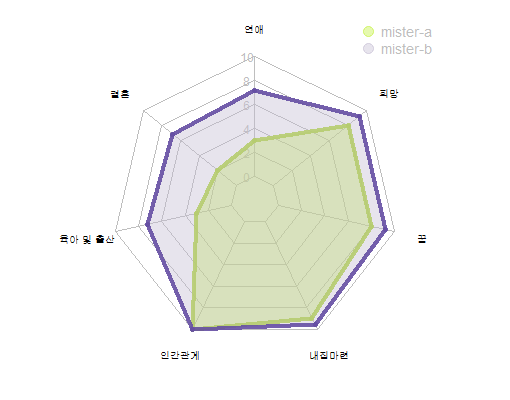
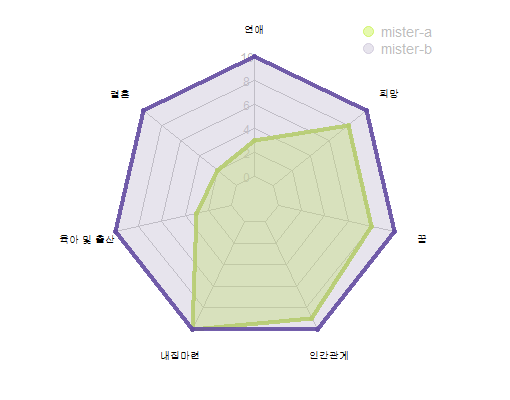
loading

Changed region(s): [[0.2059, 0.12, 0.7941, 0.84], [0.5882, 0.87, 0.7059, 0.9], [0.3235, 0.87, 0.4118, 0.9]]

diff --git a/sevenget/src/main/java/com/sevenget/Rcode/Evaluation.java b/sevenget/src/main/java/com/sevenget/Rcode/Evaluation.java
@@ -61,7 +61,6 @@ public class Evaluation {
 		double datePuP = (PRScoDto.getNoOTPuP() * 46 + PRScoDto.getWeekendWorkPuP() * 15
 				+ PRScoDto.getEggshellsPuP() * 6 + PRScoDto.getFinanSupportPuP() * 6
 				+ PRScoDto.getApprAmountWorkPuP() * 6) * 6.8 / 790;
-		System.out.println("되는거니...?");
 		double marriagePuP = ((PRScoDto.getRelSysAfterMarriagePuP() * 18 + PRScoDto.getSuffSalaryPuP() * 13
 				+ PRScoDto.getEggshellsPuP() * 11 + PRScoDto.getNoOTPuP() * 11 + PRScoDto.getFinanSupportPuP() * 9)
 				* 6.8 / 620);
@@ -105,26 +104,23 @@ public class Evaluation {
 
 		// 일반인 평가
 		try { // 세부 점수를 넣어줬으면
-			dtoEP = ev.EvalCompanyEPR(CRScoDao.selectbyCid(cid));// 값을 입력을 먼저
-																	// 해줘서 그걸
-																	// 넘겨줘야
-																	// 하는데... 일단
-																	// 값을 미리
-																	// 넣어둠.
-
+			dtoEP = ev.EvalCompanyEPR(CRScoDao.selectbyCid(cid));// 전문가 평가는 일단 값을 DB에 강제로 넣어둠. 나중에 관리자 페이지랑.. 그런거 생기면 웹에서도 입력할 수 있게 해보자..
+			System.out.println("+++++++++++++++++++++++++++++++++++++");
+			System.out.println(dtoEP.getCid()+" "+dtoEP.getDateSco()+" "+dtoEP.getMarrySco()+" "+dtoEP.getBabySco()+" "+dtoEP.getHouseSco()+" "+dtoEP.getRelationSco()+" "+dtoEP.getDreamSco()+" "+dtoEP.getHopeSco());
+			System.out.println("+++++++++++++++++++++++++++++++++++++");
 			PublicRawScoDaoImpl PRScoDao = new PublicRawScoDaoImpl();
 			System.out.println(5);
 			CompanyScoDto dtoPP = new CompanyScoDto();
 			System.out.println(6);
+			
+			// 일반인 평가가 30개가 넘는지 확인! 안넘으면 null 처리.
+			int PRcnt = PRScoDao.selectCntPublicRawScores(cid);
+			if(PRcnt <30 ){
+				dtoPP = null;
+			}else{
+				dtoPP = ev.EvalCompanyPUP(PRScoDao.selectbyCid(cid, id));
+			}
 
-			dtoPP = ev.EvalCompanyPUP(PRScoDao.selectbyCid(cid, id));// 이것도 값을
-																		// 입력을
-																		// 해줘야
-																		// 하는데
-																		// 일단
-																		// db로
-																		// 강제
-																		// 입력함!
 			System.out.println(7);
 
 			//// 점수환산 과정 중 마지막! 다 합쳐주는 것!
@@ -135,6 +131,8 @@ public class Evaluation {
 			//// CScoDto.getRelationSco(), CScoDto.getDreamSco(),
 			//// CScoDto.getHopeSco());
 			if (dtoPP != null) {
+				System.out.println("세부점수 없음 시나리오1");
+
 				System.out.println("일반인 평가 있을 때"); // 10 6.8 -> 6 4
 				double dateEP = Double.parseDouble(String.format("%.2f", dtoEP.getDateSco() * 0.6));
 				double datePP = Double.parseDouble(String.format("%.2f", dtoPP.getDateSco() * 4 / 6.8));
@@ -174,17 +172,20 @@ public class Evaluation {
 				return CScoDto;
 
 			} else {
-				System.out.println("일반인 평가 없을 때");
+				System.out.println("세부점수 없음 시나리오2");
+
+				System.out.println("일반인 평가 없거나 30개 미만일 때");
 				System.out.println("dtoEP에 저장된 cid" + dtoEP.getCid());
+				
 
 				System.out.println(16);
-				CScoDto.setDateSco(Double.parseDouble(String.format("%.2f", dtoEP.getDateSco() * 10 / 6)));
-				CScoDto.setMarrySco(Double.parseDouble(String.format("%.2f", dtoEP.getMarrySco() * 10 / 6)));
-				CScoDto.setBabySco(Double.parseDouble(String.format("%.2f", dtoEP.getBabySco() * 10 / 6)));
-				CScoDto.setHouseSco(Double.parseDouble(String.format("%.2f", dtoEP.getHouseSco() * 10 / 6)));
-				CScoDto.setRelationSco(Double.parseDouble(String.format("%.2f", dtoEP.getRelationSco() * 10 / 6)));
-				CScoDto.setDreamSco(Double.parseDouble(String.format("%.2f", dtoEP.getDreamSco() * 10 / 6)));
-				CScoDto.setHopeSco(Double.parseDouble(String.format("%.2f", dtoEP.getHopeSco() * 10 / 6)));
+				CScoDto.setDateSco(Double.parseDouble(String.format("%.2f", dtoEP.getDateSco())));
+				CScoDto.setMarrySco(Double.parseDouble(String.format("%.2f", dtoEP.getMarrySco())));
+				CScoDto.setBabySco(Double.parseDouble(String.format("%.2f", dtoEP.getBabySco())));
+				CScoDto.setHouseSco(Double.parseDouble(String.format("%.2f", dtoEP.getHouseSco())));
+				CScoDto.setRelationSco(Double.parseDouble(String.format("%.2f", dtoEP.getRelationSco())));
+				CScoDto.setDreamSco(Double.parseDouble(String.format("%.2f", dtoEP.getDreamSco() * 2)));
+				CScoDto.setHopeSco(Double.parseDouble(String.format("%.2f", dtoEP.getHopeSco() * 2)));
 				System.out.printf("연애%s\t결혼%s\t아기%s\t내집%s\t인간%s\t꿈%s\t희망%s\n", CScoDto.getDateSco(),
 						CScoDto.getMarrySco(), CScoDto.getBabySco(), CScoDto.getHouseSco(), CScoDto.getRelationSco(),
 						CScoDto.getDreamSco(), CScoDto.getHopeSco());
@@ -194,6 +195,7 @@ public class Evaluation {
 				System.out.println(18);
 			}
 		} catch (Exception e) {// 세부 점수를 안 넣어줬으면
+			System.out.println("세부점수 없음 시나리오");
 			MemConcernDAO MCdao = new MemConcernDAO();
 			System.out.println(19);
 			MemConcernDto MCdto = new MemConcernDto();

diff --git a/sevenget/src/main/java/com/sevenget/seven/ReviewController.java b/sevenget/src/main/java/com/sevenget/seven/ReviewController.java
@@ -13,6 +13,8 @@ import model.company.CompanyBasicDAO;
 import model.company.InterestedRCDAO;
 import model.company.InterestedRCDTO;
 import model.member.MemBasicInfoDAO;
+import model.plots.PlotsDaoImpl;
+import model.plots.PlotsDto;
 import model.review.ReviewDaoImpl;
 import model.review.ReviewDto;
 
@@ -22,7 +24,7 @@ public class ReviewController {
 	// 기업 상세페이지
 	@RequestMapping(value = "main/detailpage", method = RequestMethod.GET)
 	public ModelAndView DetailP(ReviewDaoImpl reviewDao, InterestedRCDAO idao, MemBasicInfoDAO mdao,CompanyBasicDAO cdao, HttpServletRequest request,HttpSession session, @RequestParam int cid) {
-		String id = (String)session.getAttribute("id"); // 파라메터로 받아오기
+		String id = (String)session.getAttribute("id"); // 세션으로 받아오기
 		System.out.println("main/detailpage"+id);
 		
 		ModelAndView mav = new ModelAndView();
@@ -40,6 +42,18 @@ public class ReviewController {
 		} else{
 			mav.addObject("isInterested", "F");
 		}
+		
+		/*PlotsDaoImpl PlotDao = new PlotsDaoImpl();
+		PlotsDto PlotDto = new PlotsDto();
+		
+		PlotDto = PlotDao.inquiryId(id, cid);
+		if(PlotDto.getPlotpng() != null){
+			System.out.println("detailpage 불러올건데 plotpng가 있다! 불러올거다!");
+			mav.addObject("plotpng", PlotDto.getPlotpng());
+		}else{
+			//mav.addObject 할거 없음..
+		}*/
+		
 		
 		mav.addObject("interTimes", idao.getInterTimesByCid(cid));
 		mav.addObject("reviewList", reviewDao.selectReview(cid));

diff --git a/sevenget/src/main/java/com/sevenget/seven/HomeController.java b/sevenget/src/main/java/com/sevenget/seven/HomeController.java
@@ -64,13 +64,21 @@ public class HomeController {
 		
 		return "main/joeh";
 	}
-	
 	// loading
 	@RequestMapping(value = "/main/loading", method = RequestMethod.GET)
+	public ModelAndView Loading(PlotsDaoImpl DAO, HttpSession session, HttpServletRequest request, @RequestParam("cid") int cid/*, @RequestParam("id") String id*/){
+		System.out.println("loading을 시작합니다. 빙글빙글");
+		ModelAndView mav = new ModelAndView();
+		mav.setViewName("/main/loading");
+		return mav;
+	}
+	
+	// loading
+	@RequestMapping(value = "/main/mplot", method = RequestMethod.GET)
 	public ModelAndView MPlot(PlotsDaoImpl DAO, HttpSession session, HttpServletRequest request, @RequestParam("cid") int cid/*, @RequestParam("id") String id*/) throws REXPMismatchException, REngineException{
+		System.out.println("mplotmplotmplotmplotmplotmplotmplot");
 		ModelAndView mav = new ModelAndView();
 
-		System.out.println("loading을 시작합니다. 빙글빙글");
 		System.out.println(cid);
 		String id = (String)session.getAttribute("id"); // 파라메터로 받아오기
 		
@@ -125,7 +133,7 @@ public class HomeController {
 		mav.addObject("cid",plotDto.getCid());
 		mav.addObject("plotpng",plotDto.getPlotpng());
 		
-		mav.setViewName("main/loading");
+		mav.setViewName("main/mplot");
 		
 		session.setAttribute("id", id);
 		session.setAttribute("cid", cid);

diff --git a/sevenget/src/main/java/com/sevenget/Rcode/MakingPlot.java b/sevenget/src/main/java/com/sevenget/Rcode/MakingPlot.java
@@ -33,8 +33,10 @@ public class MakingPlot {
 		+CScoDto.getDateSco()+","+CScoDto.getMarrySco()+","+CScoDto.getBabySco()+","+CScoDto.getHouseSco()+","+CScoDto.getRelationSco()+","+CScoDto.getDreamSco()+","+CScoDto.getHopeSco()+
 		")))}").asList();
 		System.out.println("데이터 집어넣기2");
-		connection.eval("colnames(data)=c('연애' , '결혼' , '육아 및 출산', '인간관계' , '내집마련', '꿈' , '희망' )"); // 컬럼명은 이것으로 고정.
+		connection.eval("colnames(data)=c('연애' , '결혼' , '육아 및 출산',  '내집마련', '인간관계' , '꿈' , '희망' )"); // 컬럼명은 이것으로 고정.
 		connection.eval("rownames(data)=paste('mister' , letters[1:2] , sep='-')"); //회사와 사용자로 변경하기
+//		connection.eval("rownames(data)=c("+id+","+CScoDto.getCid()+")"); //회사와 사용자로 변경하기
+
 		connection.eval("data=rbind(rep(10,7) , rep(0,7) , data)"); //DB에서 받아온 데이터 삽입 구간. 회사와 사용자의 7가지 점수가 들어갈 예정.
 		
 		// plot 그래픽 설정 및 파일 저장

diff --git a/sevenget/src/main/java/model/plots/PlotsDaoImpl.java b/sevenget/src/main/java/model/plots/PlotsDaoImpl.java
@@ -68,10 +68,7 @@ public class PlotsDaoImpl implements PlotsDao {
 
 		try {
 			System.out.println();
-			dto = inquiryId(id, cid);// 세션에서 받아온 아이디
-																// 확인. 없는 경우는 생각
-																// 안해봄... 설마
-																// 있겠지...
+			dto = inquiryId(id, cid);// 세션에서 받아온 아이디 확인. 없는 경우는 controller에서 걸러줌.
 			System.out.println("ID: " + id + " 확인되었습니다.");
 			System.out.println(dto.getPlotpng()); // 되는 건가..
 

diff --git a/sevenget/src/main/java/model/companySco/PublicRawScoDaoImpl.java b/sevenget/src/main/java/model/companySco/PublicRawScoDaoImpl.java
@@ -16,6 +16,14 @@ public class PublicRawScoDaoImpl implements PublicRawScoDao {
 	public PublicRawScoDaoImpl() {
 		mybatis = SqlSessionFactoryBean.getSqlSessionInstance();
 	}
+	
+	// 회사별 일반인 평가의 갯수 구하기. 30개가 넘어야 점수 반영하는데 사용할 것.
+	public int selectCntPublicRawScores(int cid){
+		int cnt = (int) mybatis.selectOne("PublicRawScoDAO.selectCount",cid);
+		System.out.println(cnt);
+		return cnt;
+		
+	}
 
 	public void selectPublicRawScores() {
 		List<PublicRawScoDto> list;
